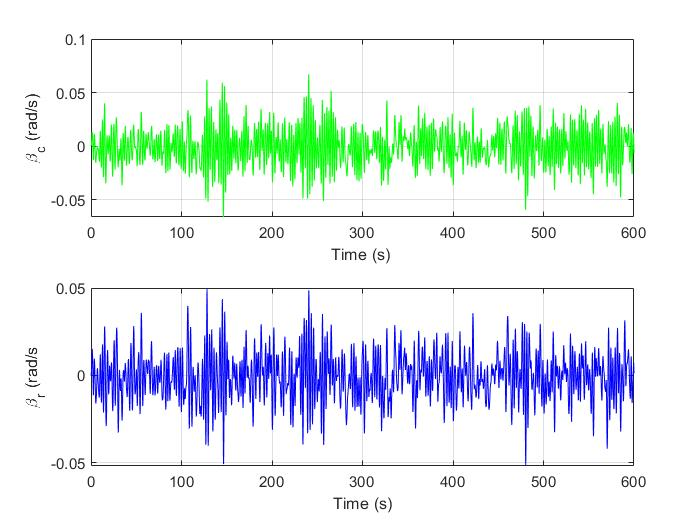
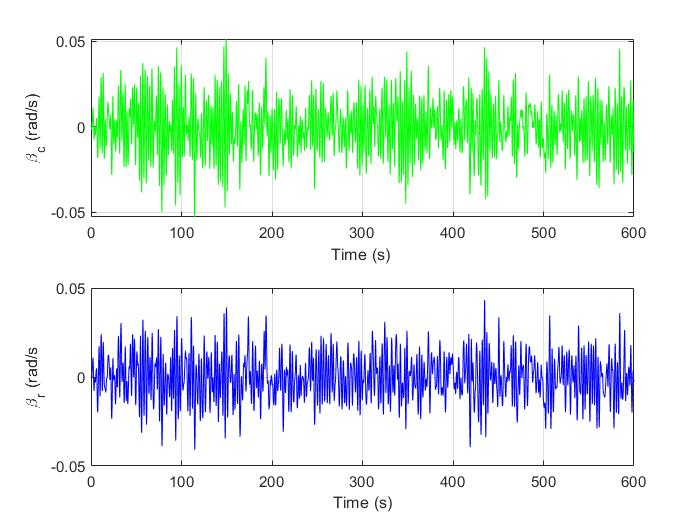
final

diff --git a/Ch_2_time_response.m b/Ch_2_time_response.m
@@ -8,7 +8,7 @@ v_g = randn(1,N)/sqrt(dt);
 w_g = randn(1,N)/sqrt(dt);
 
 % INPUT VECTORS
-u1 = [nn' nn' u_g' nn'  nn'];     
+%u1 = [nn' nn' nn' nn'  nn'];     
 u2 = [nn' nn' nn'  v_g' nn'];
 u3 = [nn' nn' nn'  nn'  w_g'];
 
@@ -33,22 +33,22 @@ Dr1 = [0 0 0 0 0;
      0 0 0 0 0;
      0 0 0 0 0];
 % RESPONSE to u_g
-y1 = lsim(A2,B,C1,D,u1,t);
+%y1 = lsim(A2,B,C1,D,u1,t);
 % RESPONSE to v_g
 y2 = lsim(A2,B,C1,D,u2,t);
 % RESPONSE to w_g
 y3 = lsim(A2,B,C1,D,u3,t);
 % RESPONSE to all together (linear system!)
-yt = y1+y2+y3;
+yt = y2+y3;
 %xt = x1+x2+x3;
 a_y =  yt(:,5);
  
-y1r = lsim(Ar,Br,Cr1,Dr1,u1,t);
+%y1r = lsim(Ar,Br,Cr1,Dr1,u1,t);
 % RESPONSE to v_g
 y2r = lsim(Ar,Br,Cr1,Dr1,u2,t);
 % RESPONSE to w_g
 y3r = lsim(Ar,Br,Cr1,Dr1,u3,t);
-ytr = y1r+y2r+y3r;
+ytr = y2r+y3r;
 a_y_r = ytr(:,3);
 
 % PLOT RESULTS
